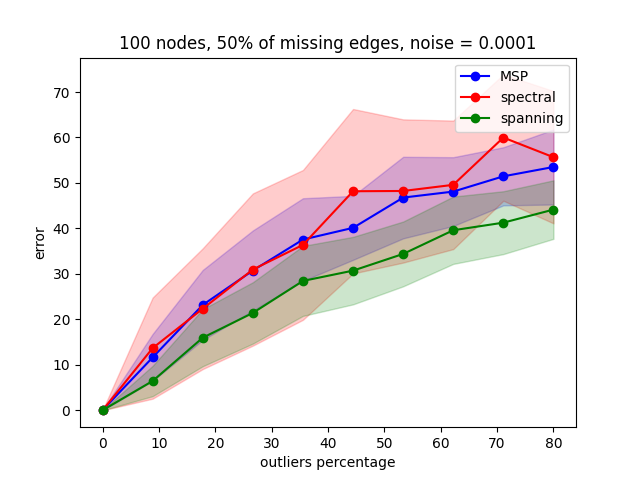
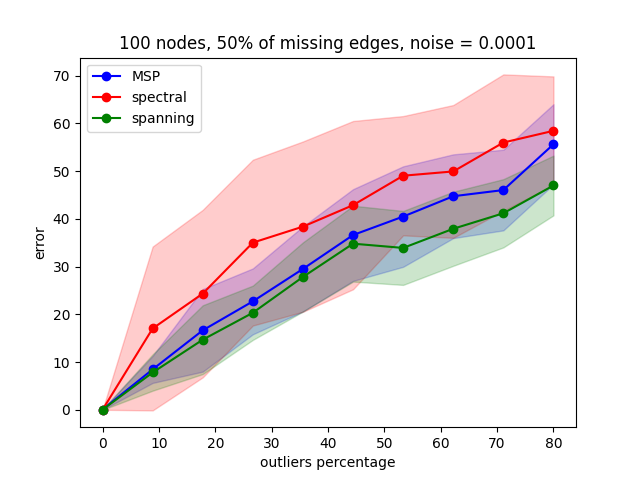
msp fix, updated outliers tests

diff --git a/synchronization/utils.py b/synchronization/utils.py
@@ -35,7 +35,7 @@ def normalize_matrices(X: np.ndarray):
         x_vec_sum = x_vec.sum()
         X_normalized[d*i: d*(i + 1), :] = X[d*i: d*(i + 1), :] / x_vec_sum
         norm = np.linalg.norm(x_vec / x_vec_sum)
-        X_normalized[d * i: d * (i + 1), :] = X[d * i: d * (i + 1), :] / norm
+        X_normalized[d * i: d * (i + 1), :] = X_normalized[d * i: d * (i + 1), :] / norm
     return X_normalized
 
 

diff --git a/tests/multi_source_propagation.py b/tests/multi_source_propagation.py
@@ -110,4 +110,4 @@ def test_outliers(n: int, miss_rate: float, num_repeat: int, noise: float):
 if __name__ == '__main__':
     #test_different_noise(100, 0.8, 20)
     #test_outliers(100, 0.5, 20, 1e-4)
-    test_outliers(100, 0.2, 30, 1e-4)
+    test_outliers(100, 0.8, 30, 1e-4)
